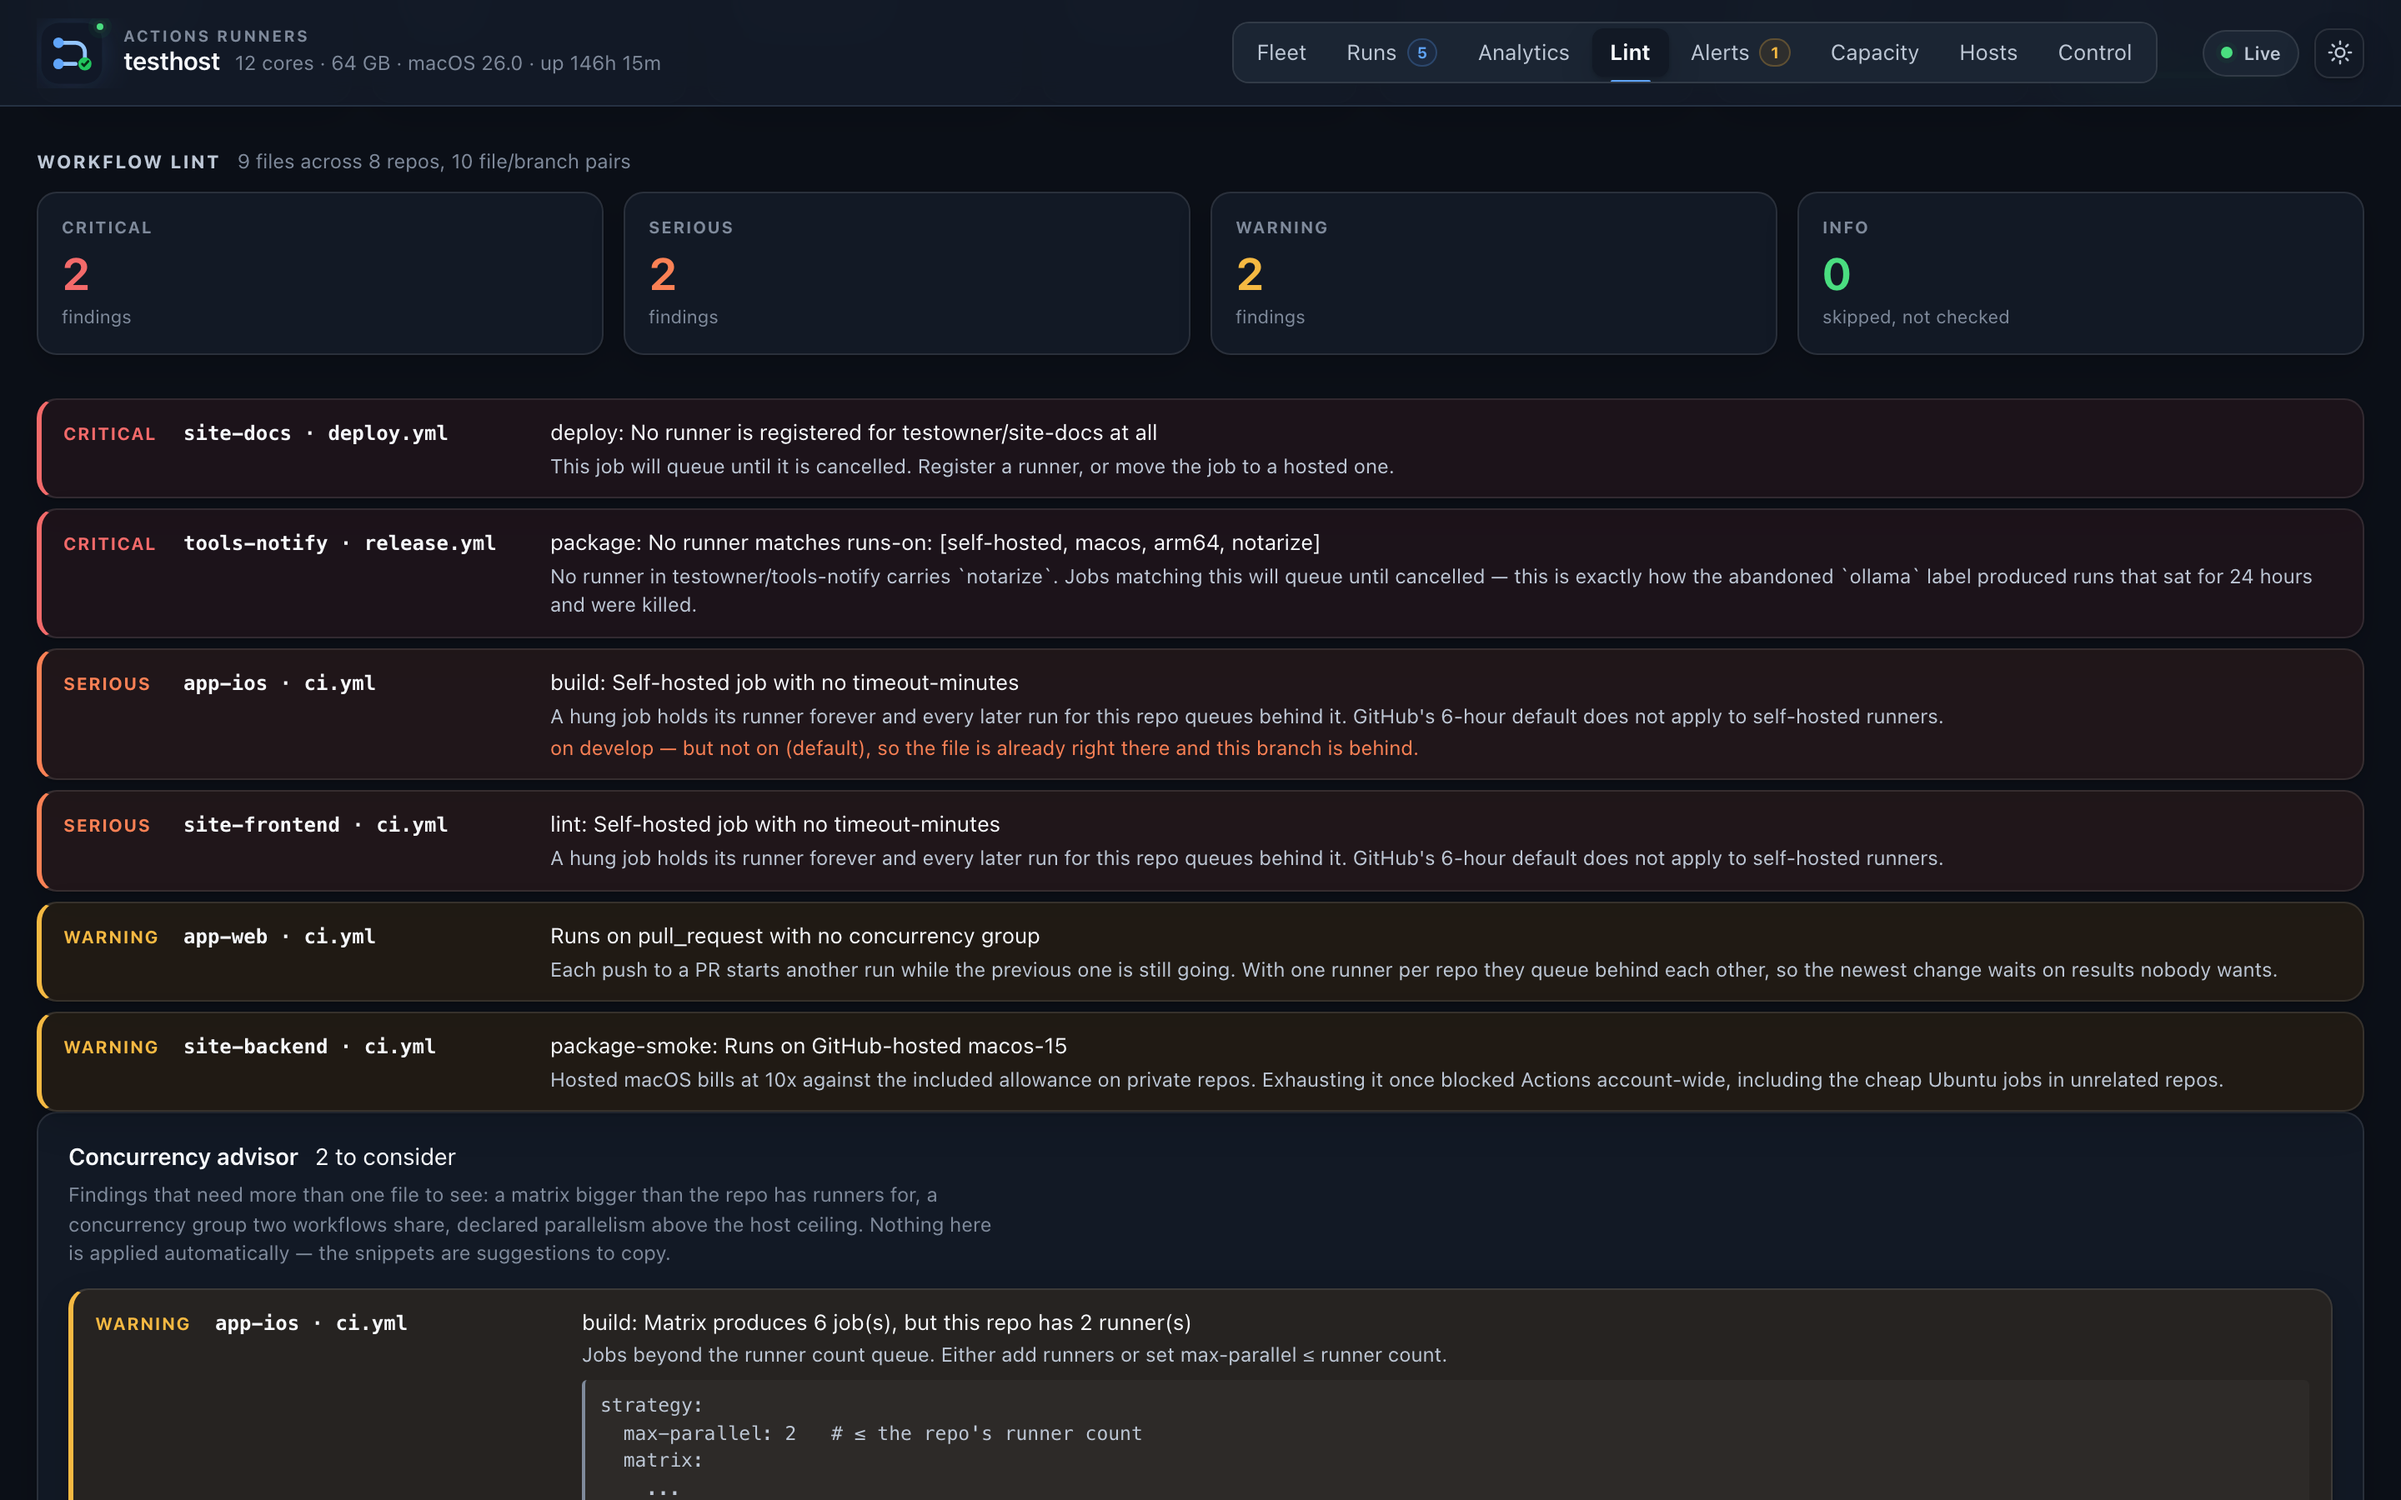
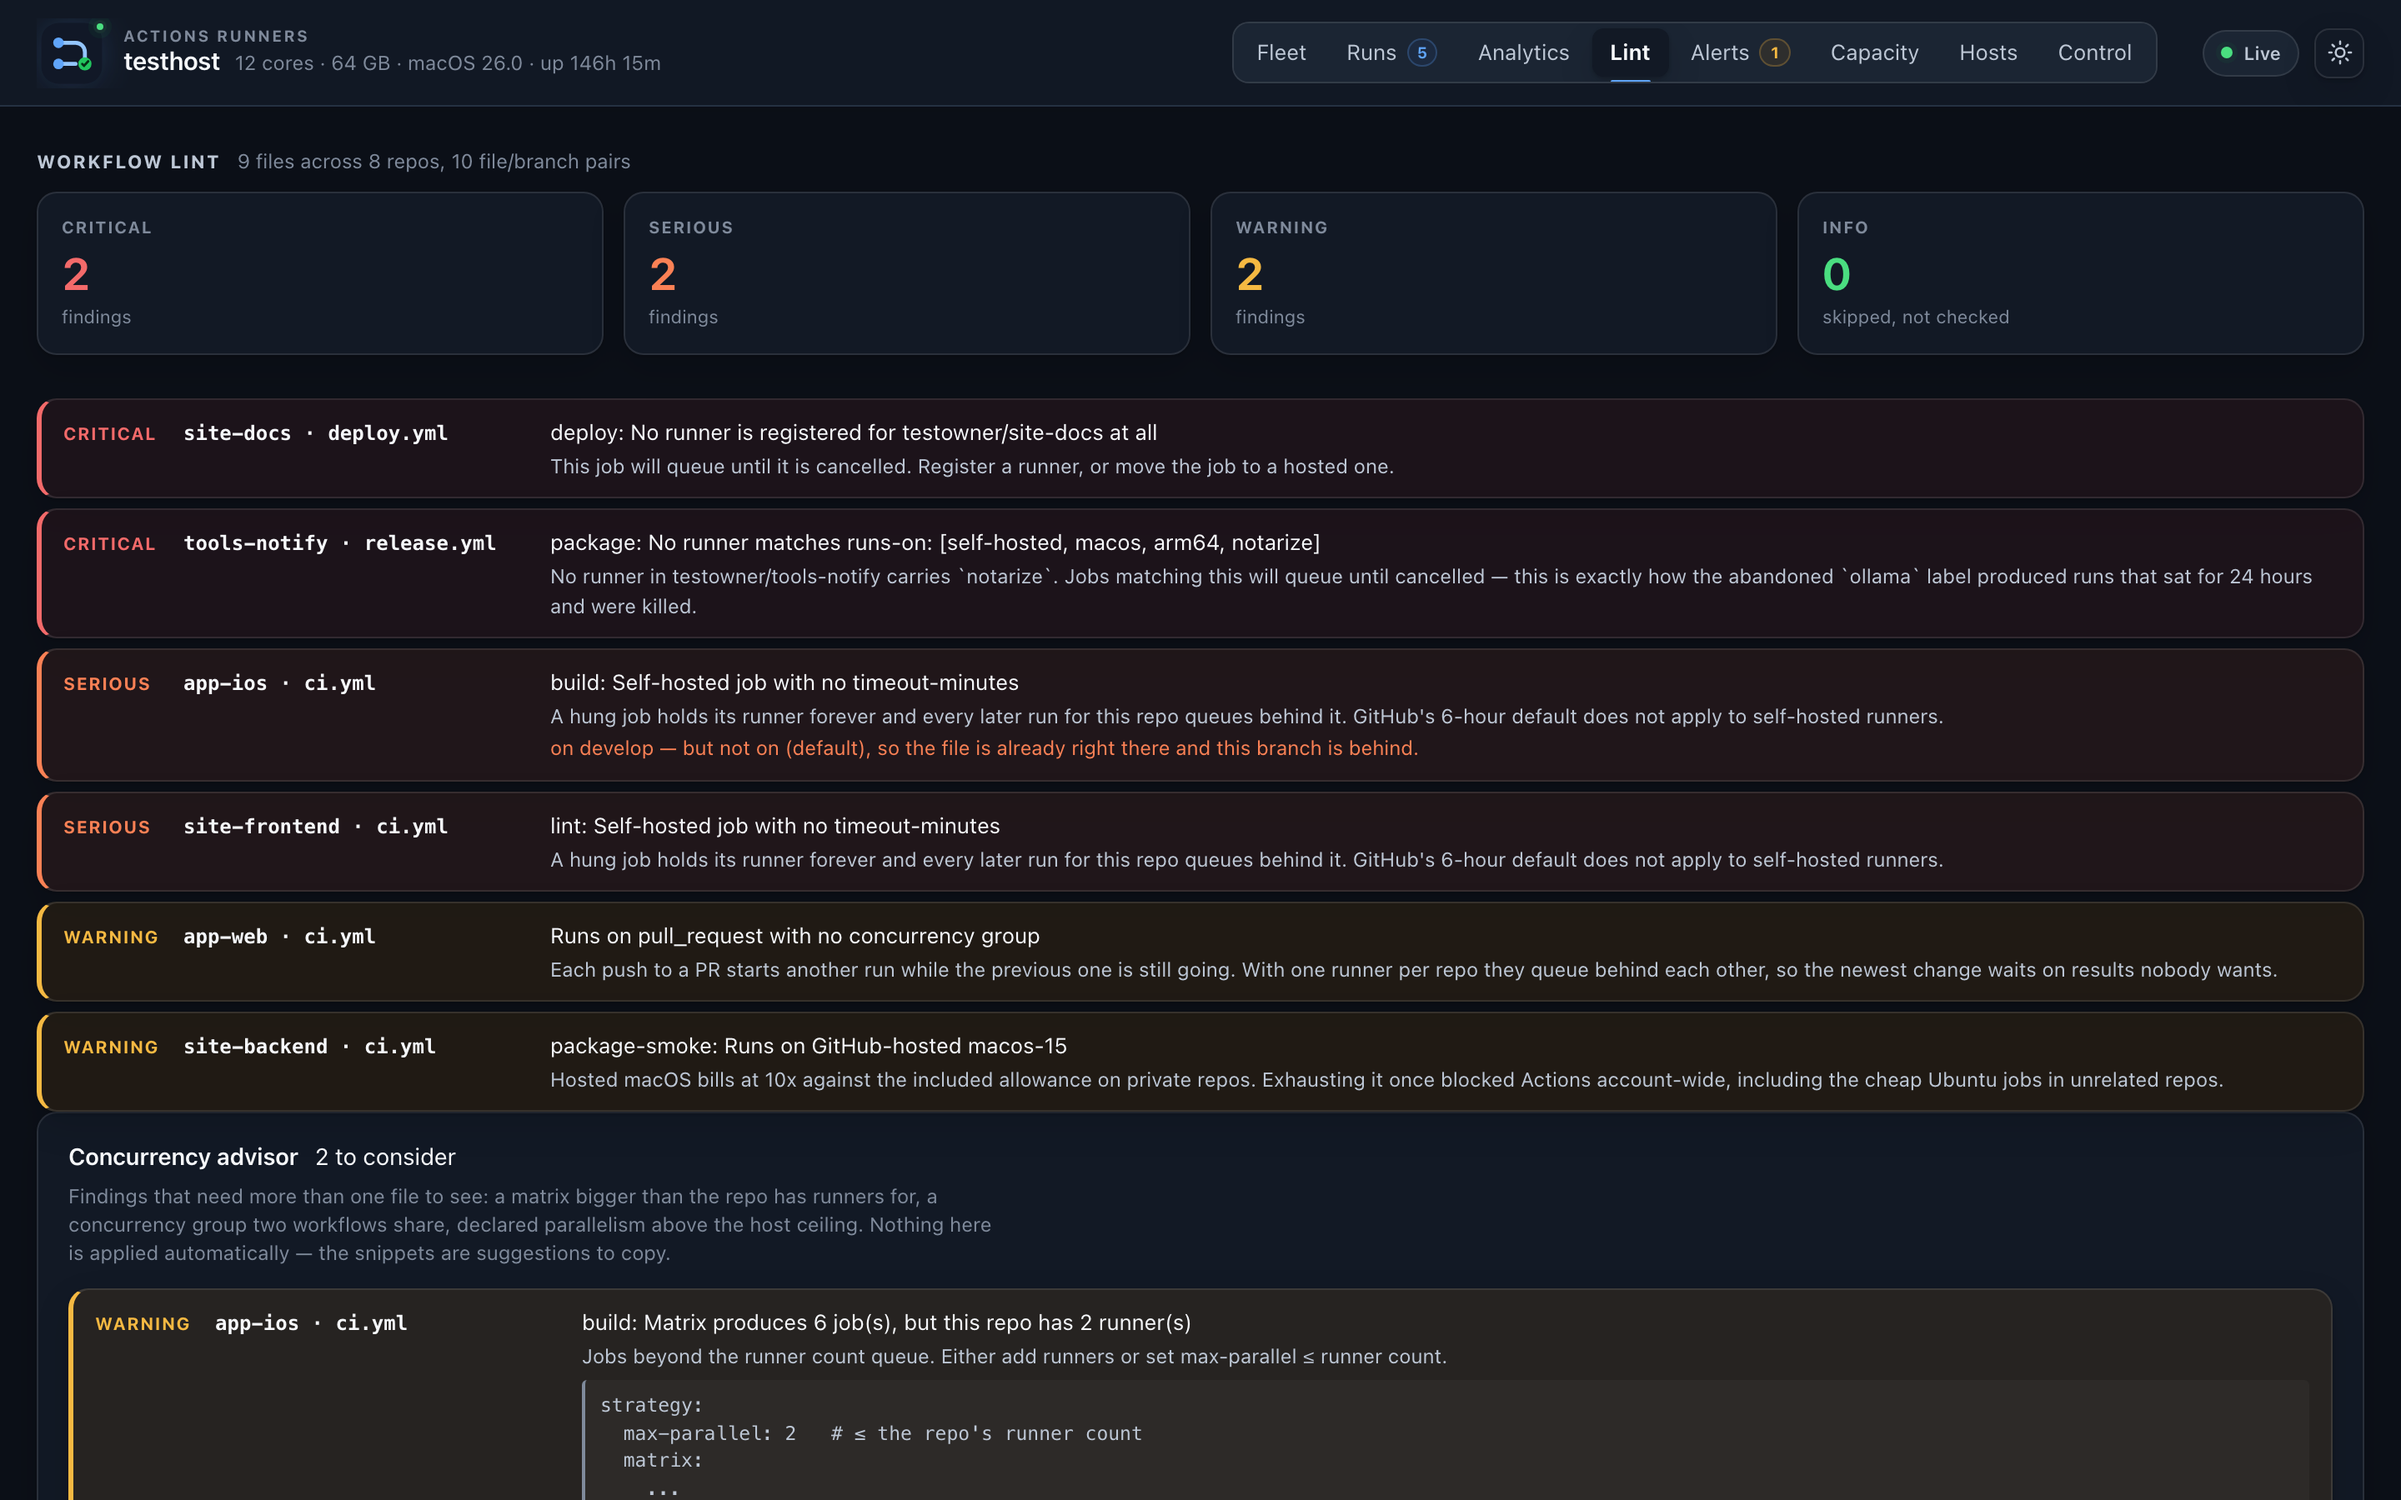
Make .is-hidden actually hide
A product fix inside a documentation change, because the documentation
could not be honest without it.

`.is-hidden { display: none }` and `.kpis { display: grid }` are both
single-class selectors, and `.kpis` comes four rules later, so it won
on source order. `#kpis.is-hidden` stayed a grid, and app.js's toggle
had no effect anywhere it was used.

The visible result is on the Analytics tab, which brings its own KPIs
for the selected window: the live row rendered above them, stacking two
different meanings of "runs" on one screen. app.js has a comment saying
exactly that must not happen, immediately above the toggle that was not
working.

It surfaced because the screenshot rig had to scroll past the row to
photograph a tab, and a screenshot showing it would have published the
bug as the product's appearance.

`!important` rather than reordering: this is a utility class competing
with layout rules at equal specificity, and source order is what failed.
Reordering fixes it until the next rule lands below it.

Screenshots re-taken against the fix.

diff --git a/dashboard/public/style.css b/dashboard/public/style.css
@@ -258,7 +258,15 @@ section { margin-bottom: 26px; }
 
 .view.is-hidden { display: none; }
 .view.is-entering { animation: view-enter 280ms cubic-bezier(.2, .7, .2, 1) both; }
-.is-hidden { display: none; }
+
+/* `!important` because this is a utility class competing with layout rules on
+   equal specificity, and source order decided the winner. `.kpis` sets
+   `display: grid` four rules below, so `#kpis.is-hidden` stayed a grid and the
+   live KPI row rendered on every tab — including Analytics, which brings its
+   own KPIs for the selected window. app.js toggles this class precisely to
+   stop that, with a comment saying showing both "stacks two different meanings
+   of 'runs' on one screen", and the toggle had no effect. */
+.is-hidden { display: none !important; }
 
 /* -------------------------------------------------------------- stat tiles */
 
